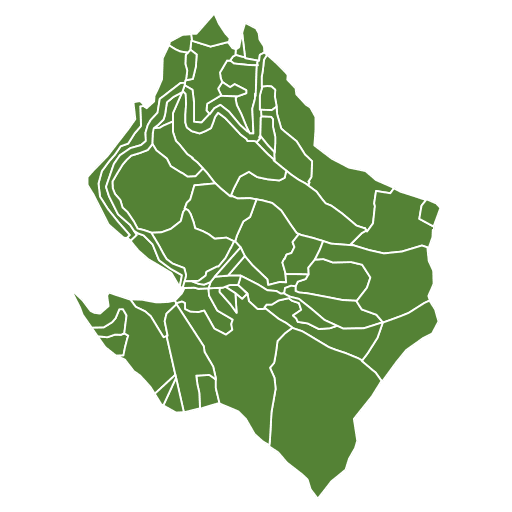
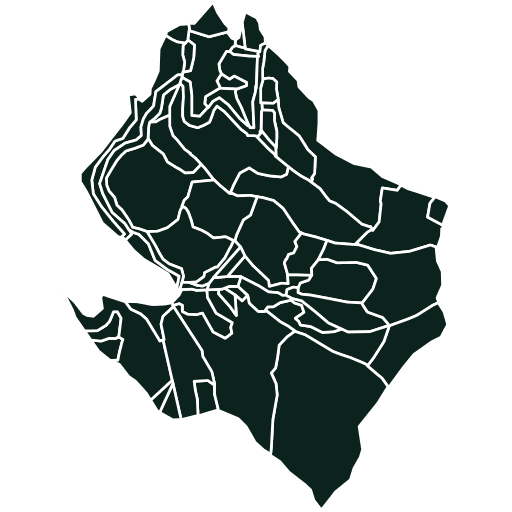
push

diff --git a/frontend/pwa-assets.config.ts b/frontend/pwa-assets.config.ts
@@ -1,6 +1,31 @@
-import { defineConfig, minimal2023Preset as preset } from '@vite-pwa/assets-generator/config';
+import { defineConfig } from '@vite-pwa/assets-generator/config';
 
 export default defineConfig({
-	preset,
+	preset: {
+		transparent: {
+			sizes: [64, 192, 512],
+			padding: 0,
+			resizeOptions: {
+				fit: 'contain',
+				background: 'transparent'
+			}
+		},
+		maskable: {
+			sizes: [512],
+			padding: 0.3, // マスカブルアイコン用のパディング
+			resizeOptions: {
+				fit: 'contain',
+				background: '#0c221d'
+			}
+		},
+		apple: {
+			sizes: [180],
+			padding: 0.3,
+			resizeOptions: {
+				fit: 'contain',
+				background: '#0c221d'
+			}
+		}
+	},
 	images: ['static/pwa-icon-origin.svg']
 });

diff --git a/frontend/src/app.html b/frontend/src/app.html
@@ -21,6 +21,9 @@
 			prefix="og: http://ogp.me/ns# fb: http://ogp.me/ns/fb# article: http://ogp.me/ns/article#"
 		/>
 		<meta name="theme-color" content="#0c221d" />
+		<meta name="apple-mobile-web-app-capable" content="yes" />
+		<meta name="apple-mobile-web-app-status-bar-style" content="black-translucent" />
+		<link rel="apple-touch-icon" href="%sveltekit.assets%/apple-touch-icon-180x180.png" />
 		<meta
 			property="og:description"
 			content="岐阜県立森林文化アカデミーの森林データを可視化するWebGIS。森林情報をブラウザ上で探索できるオープンなプラットフォームです。"
